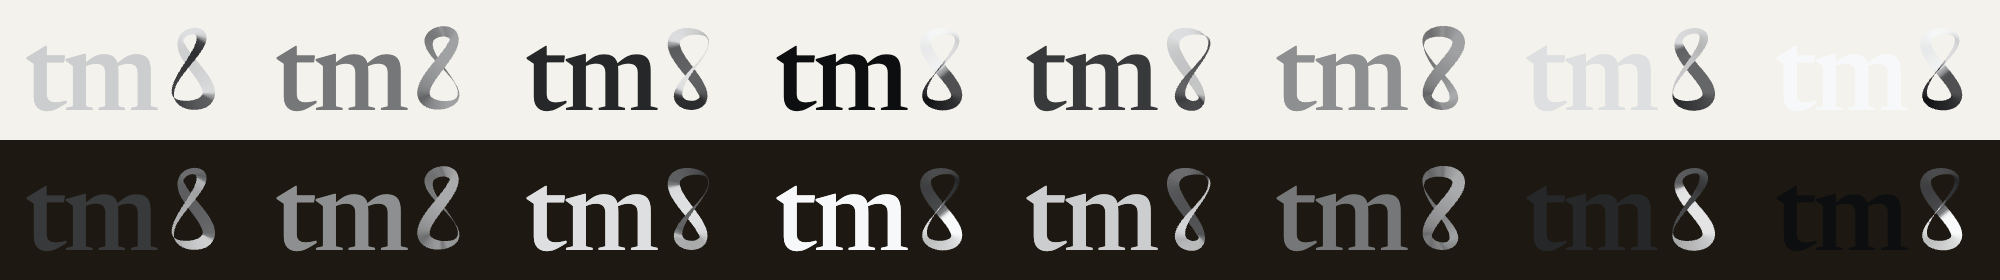
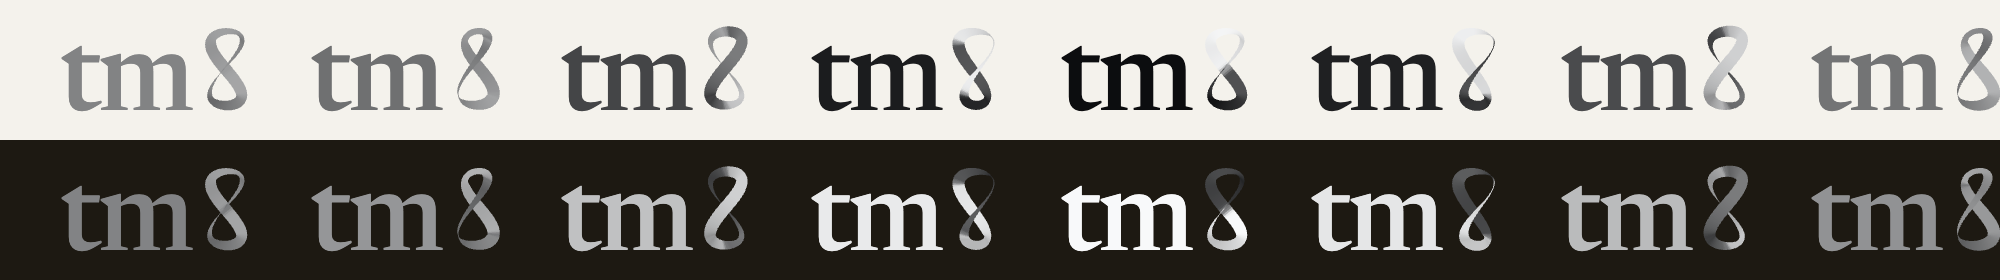
tm8 mark: cap the pole swing at 50% so nothing fades into the paper
At a full swing the letters (and each half of the 8) reached the paper's own
colour at the turnaround and vanished. POLE_SWING = 0.5 for the band, 50% in
the letters' color-mix.

diff --git a/packages/tm8-ui/src/kit/RibbonMark.tsx b/packages/tm8-ui/src/kit/RibbonMark.tsx
@@ -171,10 +171,11 @@ const smoothstep = (e0: number, e1: number, x: number) => {
      terminator that travels the length of the ribbon once per loop. Being a
      Möbius band it has one side, so the terminator never has a back to hide
      on — every stretch of band flips pole as it passes.
-   - MOON PHASE. The halves also swing: each one travels all the way to the
-     opposite pole, arriving exactly at the turnaround where the spin hands
-     over to the rewind, and swings back by the seam, so the loop stays
-     seamless. A full swing, black to white — never a fade to grey.
+   - MOON PHASE. The halves also swing: each one travels HALFWAY to the
+     opposite pole (`POLE_SWING`), arriving exactly at the turnaround where
+     the spin hands over to the rewind, and swings back by the seam, so the
+     loop stays seamless. Half, not all the way: a full swing took each half
+     (and the letters) to the paper's own colour, where they vanished.
    - A thin silver seam runs along the terminator, so the hand-over reads as a
      line of light rather than a smear.
 
@@ -207,8 +208,11 @@ function lightPole(c: V3, k: number): V3 {
   return mixV(c, [l, l, l], LIGHT_SHARE);
 }
 
+/** How far toward the opposite pole a half travels at the turnaround. */
+export const POLE_SWING = 0.5;
+
 function eclipseFill(rest: V3, turn: V3, k: number, u: number, T: number, total: number): V3 {
-  const ph = ribbonPhase(T, total);
+  const ph = POLE_SWING * ribbonPhase(T, total);
   const toneA = mixV(rest, turn, ph);
   const toneB = mixV(turn, rest, ph);
   // Signed distance to the terminator, which advances one band-length per loop.

diff --git a/packages/tm8-ui/src/kit/kit.css b/packages/tm8-ui/src/kit/kit.css
@@ -298,13 +298,15 @@
      drifts right of the letters it belongs to. */
   margin-right: -0.04em;
   /* Moon phase: BootLoader writes --kit-boot-phase (0 at rest, 1 at the
-     turnaround) from the ribbon's clock, and the letters swing pole to pole
-     with the band — black → white on light, white → black on dark, because
-     the theme swaps the two tokens. Rest is the pole that contrasts with the
-     paper, so a still frame (reduced motion, first paint) always reads. */
+     turnaround) from the ribbon's clock, and the letters swing with the band
+     — black toward white on light, white toward black on dark, because the
+     theme swaps the two tokens. HALFWAY only (50%, RibbonMark's POLE_SWING):
+     a full swing reached the paper's own colour and the letters vanished.
+     Rest is the pole that contrasts with the paper, so a still frame (reduced
+     motion, first paint) always reads. */
   color: color-mix(
     in srgb,
-    var(--pn-x-mark-turn) calc(var(--kit-boot-phase, 0) * 100%),
+    var(--pn-x-mark-turn) calc(var(--kit-boot-phase, 0) * 50%),
     var(--pn-x-mark-rest)
   );
 }

diff --git a/packages/tm8-ui/src/kit/BootLoader.tsx b/packages/tm8-ui/src/kit/BootLoader.tsx
@@ -23,9 +23,9 @@ import { RibbonMark, ribbonPhase, useRibbonClock, type RibbonMotion } from './Ri
  * than a generic arc. See `RibbonMark` for the port and for what it costs.
  *
  * It wears the `eclipse` finish (black and white, split by a travelling
- * terminator, each half swinging to the opposite pole over the loop), and the
- * letters swing with it: black → white → black on light, the exact reverse on
- * dark, reaching the far pole at the turnaround. They ride the ribbon's own clock rather than a CSS animation of
+ * terminator, each half swinging halfway to the opposite pole over the loop),
+ * and the letters swing with it: black → mid-grey → black on light, the exact
+ * reverse on dark, reaching the halfway point at the turnaround. They ride the ribbon's own clock rather than a CSS animation of
  * the same length, because a CSS clock starts when the element mounts and the
  * ribbon's starts when the first mark subscribes — two clocks that would drift
  * apart by however long boot took to paint. The phase is written straight to
